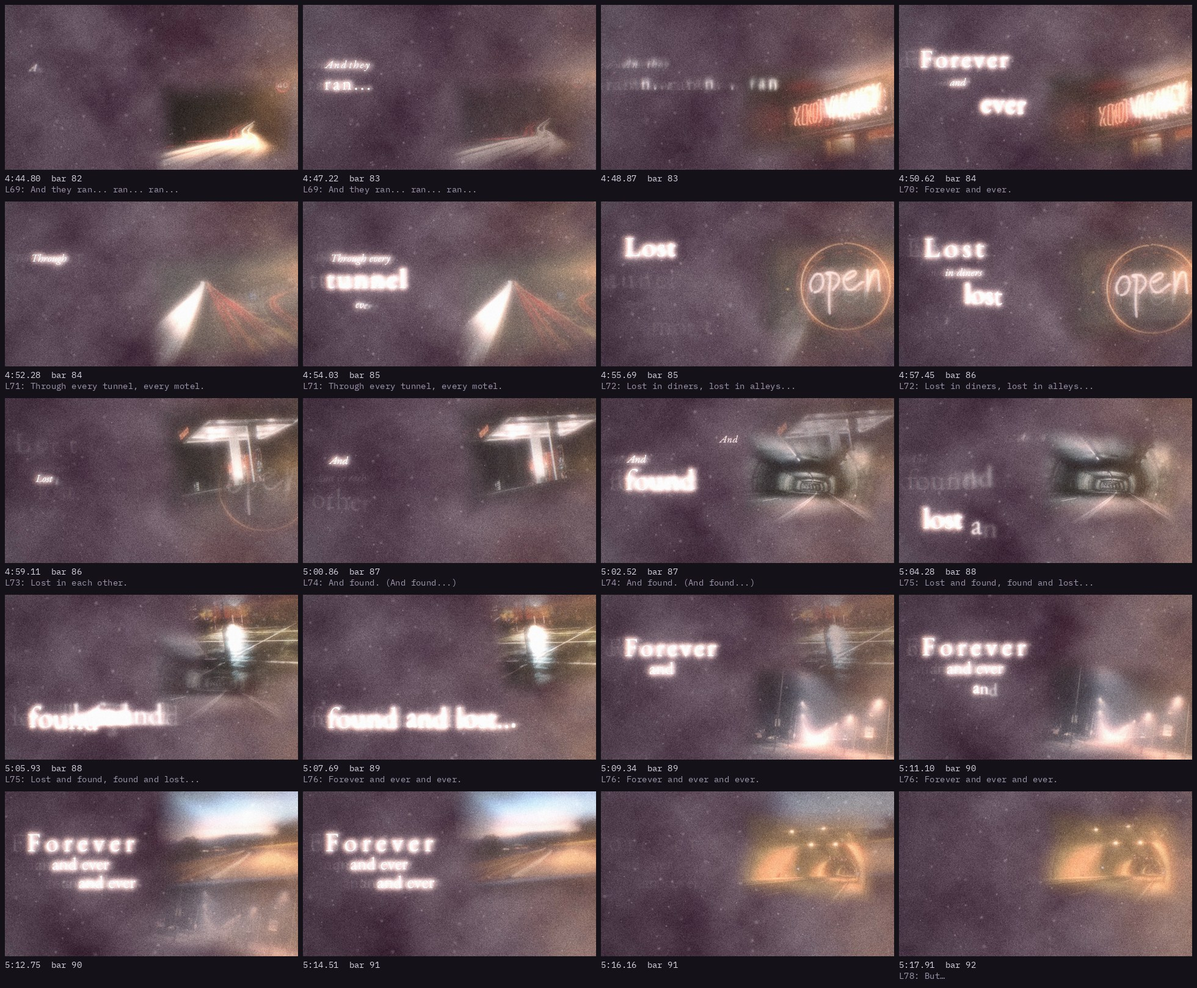
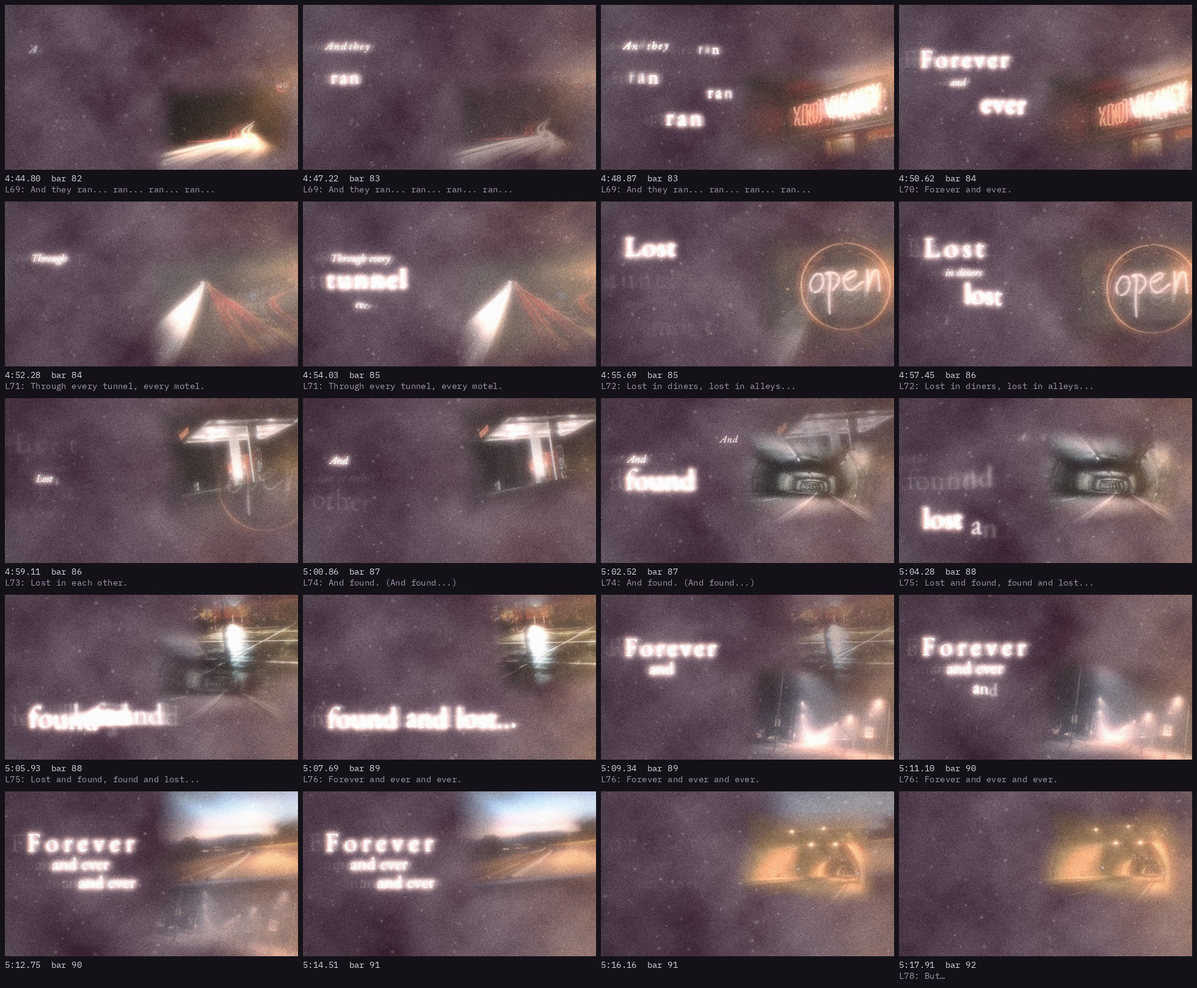
Storyboard: The Run with scattered rans
Claude-Session: https://claude.ai/code/session_013aPae8dR11r7xw8o95d9Yi

Changed region(s): [[0.498, 0.0309, 0.6536, 0.1545], [0.249, 0.0309, 0.3112, 0.0927]]

diff --git a/storyboard/index.html b/storyboard/index.html
@@ -150,7 +150,7 @@ ol.steps li::marker { font: 600 0.85rem var(--mono); color: var(--ink-2); }
   </video>
   <figcaption><b>The Run</b>
     <span class="tc">4:44.8 → 5:18.0 · bars 83–92</span>
-    <span class="note">The one time they are free. Warm and fast, but nothing pulses and nothing comes at the viewer: speed is sideways (long-exposure streaks, motel and diner photographs rushing past, light trails behind her words). No tally marks: time isn&#x27;t counted here. ran... ran... ran... steps across the frame; FOREVER / EVER; TUNNEL / MOTEL; &#x27;lost&#x27; turns good (LOST / LOST, lost in each OTHER); FOUND with its echo. Then the title is sung outright: &#x27;lost and found&#x27; set plainly in the title&#x27;s place, and its words slide past each other into &#x27;found and lost...&#x27;. &#x27;Forever and ever and ever&#x27; steps down and lets go before &#x27;But...&#x27;. <a href="renders/the_run_contact.jpg">Contact sheet</a></span></figcaption>
+    <span class="note">The one time they are free. Warm and fast, but nothing pulses and nothing comes at the viewer: speed is sideways (long-exposure streaks, motel and diner photographs rushing past, light trails behind her words). No tally marks: time isn&#x27;t counted here. four &#x27;ran&#x27;s (no ellipses) scattered across the frame; FOREVER / EVER; TUNNEL / MOTEL; &#x27;lost&#x27; turns good (LOST / LOST, lost in each OTHER); FOUND with its echo. Then the title is sung outright: &#x27;lost and found&#x27; set plainly in the title&#x27;s place, and its words slide past each other into &#x27;found and lost...&#x27;. &#x27;Forever and ever and ever&#x27; steps down and lets go before &#x27;But...&#x27;. <a href="renders/the_run_contact.jpg">Contact sheet</a></span></figcaption>
 </figure>
 <figure class="render" id="render-spoken_ii">
   <video controls playsinline preload="metadata" poster="renders/spoken_ii_poster.jpg" width="1280" height="720">
@@ -551,10 +551,10 @@ ol.steps li::marker { font: 600 0.85rem var(--mono); color: var(--ink-2); }
   <div class="body">
     <header><span class="chip" data-world="run">The run</span>
       <h3>The Run</h3></header>
-    <p class="lyr">And they ran... ran... ran...</p>
+    <p class="lyr">And they ran... ran... ran... ran...</p>
     <dl>
       <dt>Picture</dt><dd>The only time they are free: warm and fast, sodium and neon smearing into long-exposure streaks, motel and diner photographs rushing past. Speed is sideways, never toward the viewer and never on the beat. The tally marks stop: time isn&#x27;t counted here. &#x27;Lost&#x27; turns good (lost in each other), and the title is sung outright: “lost and found” set plainly in the title&#x27;s place, then its words slide past each other into “found and lost...”.</dd>
-      <dt>Type</dt><dd>Her voice as warm light. ran... ran... ran... stepping across the frame; FOREVER / EVER; TUNNEL / MOTEL; LOST / LOST; each OTHER; FOUND with its echo; the title, then its reversal; forever and ever and ever stepping down.</dd>
+      <dt>Type</dt><dd>Her voice as warm light. Four RANs, no ellipses, scattered across the frame; FOREVER / EVER; TUNNEL / MOTEL; LOST / LOST; each OTHER; FOUND with its echo; the title, then its reversal; forever and ever and ever stepping down.</dd>
       <dt>Sync</dt><dd>Words re-timed where Whisper ran them together; the bars land on the “But...” freeze.</dd>
     </dl>
   </div>
@@ -711,7 +711,7 @@ ol.steps li::marker { font: 600 0.85rem var(--mono); color: var(--ink-2); }
 })();
 </script>
 <script>
-const D = {"duration":493.6209977324263,"loud_t":0.5,"loud":[-47.0,-80.9,-60.6,-44.5,-39.1,-36.3,-33.6,-30.7,-28.0,-27.2,-27.0,-26.6,-26.8,-26.0,-24.4,-24.1,-24.0,-23.0,-23.1,-21.6,-19.4,-18.7,-19.1,-21.8,-23.9,-24.4,-25.6,-25.4,-24.3,-24.4,-23.7,-23.2,-22.7,-23.0,-23.6,-22.5,-20.9,-20.0,-19.8,-19.4,-20.0,-20.2,-19.6,-19.3,-19.4,-19.2,-19.6,-21.1,-21.5,-21.8,-20.6,-19.3,-19.1,-19.4,-20.7,-20.8,-18.9,-18.8,-20.3,-19.6,-19.8,-19.6,-18.9,-20.0,-19.6,-19.3,-19.3,-20.2,-21.0,-20.3,-19.4,-19.6,-19.8,-18.8,-19.3,-19.7,-19.1,-19.8,-20.5,-20.8,-20.3,-20.5,-21.3,-20.9,-19.7,-20.1,-21.0,-19.7,-19.5,-19.1,-18.7,-18.6,-18.3,-19.2,-19.5,-19.6,-19.4,-19.4,-19.2,-18.7,-20.4,-20.7,-19.5,-19.4,-19.7,-18.3,-17.4,-19.4,-21.7,-22.3,-22.4,-22.1,-21.6,-21.0,-19.7,-19.1,-18.8,-18.9,-19.1,-18.2,-18.4,-19.2,-18.6,-18.2,-18.2,-18.9,-18.6,-17.8,-17.4,-17.2,-17.7,-18.1,-19.0,-18.8,-18.6,-18.7,-17.7,-18.1,-18.6,-18.9,-18.6,-17.8,-17.5,-17.6,-18.3,-18.1,-17.7,-17.6,-18.0,-18.4,-17.7,-18.0,-17.8,-17.4,-17.8,-17.6,-17.2,-17.6,-18.4,-17.7,-17.5,-17.8,-18.6,-18.9,-17.7,-17.5,-17.3,-16.9,-17.1,-17.7,-18.2,-18.1,-17.5,-17.8,-18.1,-17.3,-17.4,-17.7,-17.1,-17.1,-16.9,-17.8,-17.6,-17.2,-17.5,-17.5,-17.9,-17.7,-17.5,-17.0,-16.9,-17.4,-17.5,-18.4,-18.9,-18.3,-17.1,-17.1,-17.4,-16.6,-17.3,-17.6,-16.9,-16.1,-16.5,-17.4,-17.1,-17.2,-17.3,-17.0,-16.1,-16.2,-16.9,-16.7,-17.3,-17.4,-16.4,-15.7,-16.1,-17.4,-17.6,-18.0,-18.2,-16.4,-15.7,-15.9,-15.7,-16.2,-17.5,-18.1,-18.7,-18.6,-19.4,-18.0,-16.2,-17.6,-18.0,-18.1,-18.2,-22.3,-22.2,-17.0,-16.5,-17.2,-17.2,-16.7,-17.2,-17.2,-17.6,-18.2,-17.6,-18.1,-17.2,-18.1,-19.3,-17.9,-17.7,-17.0,-16.5,-15.8,-15.5,-16.1,-17.0,-17.5,-17.4,-17.9,-17.2,-17.6,-18.6,-17.1,-16.2,-16.2,-16.4,-15.6,-15.1,-16.2,-17.1,-17.0,-16.9,-17.4,-16.6,-16.3,-17.0,-17.3,-16.9,-16.6,-16.2,-15.3,-15.8,-16.2,-16.6,-16.9,-16.8,-16.9,-16.2,-16.4,-16.5,-15.5,-15.2,-15.5,-15.3,-14.5,-14.8,-15.4,-15.6,-15.6,-15.4,-15.8,-16.1,-15.5,-15.6,-16.1,-16.4,-16.1,-15.1,-14.9,-14.8,-15.8,-16.2,-15.5,-15.4,-15.7,-16.0,-15.8,-17.0,-17.1,-16.8,-16.7,-15.6,-15.5,-15.3,-15.5,-15.3,-15.6,-15.9,-15.7,-15.8,-15.8,-16.2,-16.1,-15.8,-15.9,-15.3,-15.2,-15.0,-14.9,-15.6,-15.6,-15.5,-15.4,-15.8,-16.2,-16.2,-16.6,-16.0,-15.4,-15.2,-15.3,-15.4,-15.2,-15.7,-15.6,-15.2,-15.3,-15.7,-16.2,-18.4,-22.2,-22.6,-21.9,-23.3,-25.0,-22.7,-20.3,-21.3,-21.5,-22.4,-24.0,-22.9,-21.5,-21.7,-22.4,-22.6,-22.2,-21.2,-21.2,-21.5,-21.8,-21.1,-19.8,-20.1,-18.7,-16.5,-16.1,-16.5,-16.8,-16.6,-15.9,-15.8,-16.2,-16.5,-16.9,-16.8,-16.2,-15.6,-15.7,-16.0,-16.0,-16.4,-16.4,-16.0,-15.9,-15.8,-16.1,-16.2,-16.5,-16.9,-16.2,-15.7,-15.9,-16.5,-16.6,-17.0,-16.9,-16.1,-16.2,-16.0,-16.4,-16.6,-16.6,-16.3,-15.6,-15.7,-15.9,-16.3,-16.7,-16.8,-16.7,-16.0,-15.9,-16.2,-16.2,-16.5,-16.4,-16.4,-15.9,-16.0,-16.4,-16.5,-16.8,-16.6,-16.3,-16.1,-15.8,-16.0,-16.2,-16.9,-16.7,-15.8,-15.8,-15.9,-16.6,-16.8,-16.7,-16.6,-16.1,-16.2,-16.1,-16.3,-16.6,-16.5,-16.5,-15.8,-15.7,-16.1,-16.5,-16.6,-16.6,-16.3,-15.3,-15.6,-16.1,-15.5,-15.8,-15.9,-15.4,-14.8,-14.8,-15.5,-15.8,-16.4,-16.5,-15.7,-15.3,-15.4,-16.0,-15.7,-15.6,-15.6,-14.7,-15.0,-15.4,-15.7,-16.3,-16.6,-16.5,-15.6,-15.6,-16.1,-16.0,-16.4,-16.4,-15.7,-15.3,-15.2,-16.1,-16.6,-16.2,-15.6,-15.4,-15.3,-15.5,-16.2,-16.5,-16.2,-15.4,-15.3,-15.3,-15.1,-15.6,-15.9,-15.8,-15.6,-15.8,-15.8,-15.8,-16.2,-16.7,-16.2,-15.4,-16.0,-17.4,-19.4,-19.4,-22.8,-25.1,-19.5,-15.9,-16.1,-16.4,-16.6,-17.0,-16.3,-15.5,-15.7,-16.1,-16.0,-16.4,-16.5,-16.6,-16.8,-17.4,-17.4,-16.3,-16.0,-17.4,-18.8,-18.2,-18.3,-17.4,-16.0,-16.8,-17.2,-17.4,-17.8,-18.0,-18.0,-16.8,-16.7,-17.7,-17.5,-17.2,-17.3,-17.6,-16.8,-16.8,-17.4,-17.3,-17.2,-17.3,-17.6,-16.7,-16.3,-16.9,-17.0,-17.6,-17.6,-17.6,-17.3,-17.0,-18.8,-18.8,-18.3,-18.5,-17.6,-16.7,-17.0,-17.3,-16.6,-16.7,-17.2,-16.9,-16.6,-17.1,-17.4,-17.6,-17.1,-16.7,-16.8,-17.3,-17.3,-16.9,-16.4,-16.5,-16.9,-17.0,-17.7,-17.3,-16.2,-17.6,-17.7,-17.0,-17.1,-17.0,-17.7,-17.4,-17.8,-17.6,-16.8,-16.7,-17.0,-17.6,-17.1,-16.7,-16.9,-16.5,-16.4,-17.1,-17.6,-17.1,-16.9,-16.9,-16.8,-17.3,-16.9,-16.8,-16.9,-16.7,-17.1,-17.4,-17.6,-17.3,-16.6,-16.3,-16.6,-16.6,-16.2,-16.8,-17.5,-17.5,-18.3,-18.6,-18.1,-17.7,-18.0,-18.7,-18.6,-18.6,-18.4,-17.3,-17.1,-17.8,-18.0,-17.8,-17.8,-18.2,-17.7,-18.2,-19.6,-18.8,-18.3,-18.4,-17.8,-16.8,-17.5,-18.3,-17.7,-18.0,-17.8,-17.6,-17.6,-17.7,-18.7,-18.4,-18.6,-18.7,-17.7,-17.2,-17.3,-17.8,-18.1,-18.4,-18.4,-17.5,-17.7,-18.6,-18.8,-18.3,-17.7,-17.7,-18.1,-18.6,-18.5,-17.5,-18.0,-18.9,-18.4,-18.1,-18.6,-18.5,-17.5,-18.6,-19.1,-18.0,-17.7,-18.1,-18.4,-18.0,-18.7,-18.8,-17.9,-18.1,-18.6,-18.1,-18.2,-18.8,-18.8,-18.0,-18.2,-18.6,-18.1,-18.8,-19.2,-18.6,-17.8,-18.7,-19.5,-18.3,-18.5,-19.1,-18.6,-18.6,-18.4,-18.6,-18.7,-18.7,-18.6,-17.8,-18.1,-18.3,-18.4,-18.6,-18.3,-18.5,-18.2,-18.1,-18.4,-17.6,-17.3,-17.7,-18.3,-18.3,-18.4,-18.8,-18.3,-18.0,-17.7,-17.0,-16.7,-17.2,-17.7,-17.6,-17.4,-17.3,-16.7,-16.8,-17.9,-17.6,-17.9,-18.8,-18.6,-18.3,-18.0,-18.3,-17.6,-17.3,-17.8,-18.4,-18.5,-18.6,-19.1,-18.7,-18.6,-18.5,-17.9,-17.7,-17.9,-19.2,-19.1,-18.7,-18.5,-17.9,-18.3,-17.9,-17.6,-18.0,-18.5,-18.3,-17.2,-17.2,-17.8,-17.6,-17.6,-18.0,-18.5,-18.2,-17.7,-18.1,-17.8,-18.7,-19.3,-17.8,-17.3,-18.2,-18.9,-17.7,-17.7,-18.5,-17.8,-17.8,-19.1,-19.6,-18.1,-18.2,-18.4,-17.8,-18.7,-18.6,-17.0,-17.0,-18.3,-18.4,-17.4,-16.6,-17.2,-18.0,-17.7,-17.3,-18.4,-18.3,-18.1,-18.4,-17.4,-17.2,-17.9,-18.9,-18.2,-17.9,-18.8,-18.5,-18.9,-19.0,-19.0,-18.4,-17.4,-18.1,-18.3,-19.0,-19.2,-18.9,-18.5,-17.4,-18.2,-18.4,-18.7,-19.2,-18.1,-17.5,-18.0,-21.7,-25.5,-22.3,-19.1,-21.2,-21.3,-19.6,-18.5,-17.5,-17.4,-17.3,-17.0,-17.5,-17.4,-17.2,-17.2,-17.0,-17.6,-17.8,-17.5,-17.5,-18.0,-18.1,-18.1,-18.1,-17.3,-17.0,-17.6,-17.7,-17.5,-17.2,-17.4,-17.4,-18.1,-18.9,-18.1,-18.2,-18.3,-17.5,-17.0,-17.6,-18.4,-17.8,-18.0,-18.4,-17.6,-17.5,-18.2,-18.3,-17.7,-17.8,-18.0,-17.5,-17.5,-17.3,-16.9,-17.5,-18.0,-17.5,-17.2,-18.7,-18.9,-17.1,-17.3,-17.2,-17.1,-17.0,-16.7,-17.0,-16.8,-16.8,-16.8,-16.7,-16.6,-16.3,-16.9,-17.0,-16.7,-16.7,-16.2,-16.3,-16.7,-16.6,-16.3,-16.7,-20.1,-27.7,-36.8,-26.0],"bars":[0.418,3.3672,6.828,10.3616,13.9019,20.0866,23.6284,27.166,30.705,34.2453,37.7775,41.3056,44.8364,48.3672,51.8966,55.4247,58.9432,62.4535,65.9583,69.4563,72.9503,76.4456,79.9436,83.4389,84.3103,87.7974,91.2804,94.7606,98.2423,101.7212,105.1932,106.9279,110.4013,113.898,120.0677,123.5971,127.1156,130.6327,134.1458,137.6424,141.1268,144.6016,148.0764,151.5416,155.0014,158.4543,161.9045,165.3575,168.8063,172.2511,175.6876,179.1187,182.5498,185.9836,189.4161,192.8486,196.2769,199.6971,203.12,206.5429,209.9617,213.3764,216.7911,220.2071,223.6136,227.0119,230.4089,233.8045,237.1973,240.5874,243.9748,247.3581,250.74,256.6474,259.9925,262.8663,264.9178,267.4201,270.3076,271.9412,275.233,278.6326,282.0501,287.168,290.5745,293.9837,297.3998,300.8131,304.2251,307.6357,311.0477,314.4569,317.8648,321.2699,324.671,328.072,331.4676,334.0122,337.401,340.7856,344.173,347.5604,350.9437,354.3283,357.7075,361.0908,367.0132,370.3938,373.7757,377.1563,380.5368,383.9146,387.2952,390.673,394.0467,396.5832,399.961,403.332,406.7002,410.0767,413.4559,416.8378,417.686,421.0884,424.5086,427.9369,431.3653,434.7977,438.2288,441.6572,445.0883,448.5194,451.9491,452.8055,456.2325,459.6581,463.0865,466.5039,469.9036,473.2882,476.6715,480.0575,483.4449,486.8296,490.206,493.5634],"sections":[{"name":"Intro","start":0.0,"end":16.92,"world":"void","bar":0},{"name":"Verse A: Through eyes","start":16.92,"end":56.0,"world":"her","bar":5},{"name":"There comes a once","start":56.0,"end":84.15,"world":"memory","bar":16},{"name":"Refrain I: Stay lost now girl","start":84.15,"end":106.35,"world":"her","bar":24},{"name":"Break I","start":106.35,"end":117.1,"world":"institute","bar":31},{"name":"White Coats I","start":117.1,"end":151.81,"world":"institute","bar":34},{"name":"They brought a man","start":151.81,"end":184.0,"world":"memory","bar":44},{"name":"Spoken I: I can help you find","start":184.0,"end":195.57,"world":"memory","bar":53},{"name":"Break II","start":195.57,"end":208.42,"world":"memory","bar":56},{"name":"White Coats II","start":208.42,"end":253.4,"world":"institute","bar":60},{"name":"A gun and a bullet","start":253.4,"end":274.5,"world":"institute","bar":73},{"name":"Spoken II: I won't lose you","start":274.5,"end":284.78,"world":"memory","bar":80},{"name":"The Run","start":284.78,"end":318.0,"world":"run","bar":83},{"name":"But...","start":318.0,"end":332.45,"world":"void","bar":93},{"name":"White Coats III","start":332.45,"end":363.99,"world":"institute","bar":97},{"name":"The Cutting","start":363.99,"end":396.63,"world":"memory","bar":106},{"name":"Refrain II: Stay lost now girl","start":396.63,"end":417.57,"world":"her","bar":116},{"name":"Verse A reprise","start":417.57,"end":452.07,"world":"her","bar":122},{"name":"Outro","start":452.07,"end":493.621,"world":"void","bar":133}],"lines":[{"n":1,"s":16.92,"e":20.3,"x":"Through eyes that were hers and weren't","pin":true},{"n":2,"s":20.45,"e":24.02,"x":"Through years that weren't hers and were","pin":true},{"n":3,"s":24.02,"e":27.46,"x":"Left in rooms she couldn't leave","pin":false},{"n":4,"s":27.46,"e":30.86,"x":"Learning a self she couldn't learn","pin":false},{"n":5,"s":30.86,"e":35.28,"x":"And a voice came to her (sweet, so sweet)","pin":false},{"n":6,"s":35.28,"e":42.96,"x":"A hand, as ever as it was once (good, so good)","pin":false},{"n":7,"s":43.7,"e":46.96,"x":"She got lost inside him","pin":false},{"n":8,"s":46.96,"e":50.52,"x":"Lost and lost inside him","pin":false},{"n":9,"s":50.52,"e":54.04,"x":"Like she swore she never would.","pin":false},{"n":11,"s":56.0,"e":58.68,"x":"But there comes a once... once...","pin":true},{"n":12,"s":58.68,"e":64.7,"x":"She said \"no\" (once...). And she lost him for a lifetime.","pin":false},{"n":13,"s":64.7,"e":67.28,"x":"There comes a once... once...","pin":false},{"n":14,"s":67.28,"e":73.28,"x":"She said \"yes\" (once...).  And she lost him forever.","pin":false},{"n":15,"s":73.28,"e":75.12,"x":"Lost and lost.","pin":false},{"n":16,"s":75.38,"e":76.6,"x":"Lost to her.","pin":false},{"n":17,"s":76.6,"e":78.47,"x":"Lost to the world.","pin":false},{"n":18,"s":78.47,"e":84.15,"x":"Forever and ever.","pin":true},{"n":20,"s":84.15,"e":89.2,"x":"Stay lost now girl (forever, forever)","pin":true},{"n":21,"s":89.29,"e":92.49,"x":"Throw away everything he found","pin":false},{"n":22,"s":92.49,"e":97.75,"x":"So he never got lost inside you. (again, again)","pin":true},{"n":23,"s":97.75,"e":104.65,"x":"Forever again, forever again.","pin":true},{"n":24,"s":105.17,"e":106.35,"x":"Never again...","pin":false},{"n":26,"s":117.1,"e":119.5,"x":"The white coats said:","pin":true},{"n":27,"s":120.2,"e":123.05,"x":"We've found a girl who is very lost.","pin":true},{"n":28,"s":123.05,"e":126.91,"x":"Scribble scribble, stab stab the charts.","pin":true},{"n":29,"s":126.91,"e":130.23,"x":"Keep her safe in a nice white room.","pin":false},{"n":30,"s":130.23,"e":133.95,"x":"Scribble scribble, stab stab the charts.","pin":true},{"n":31,"s":133.95,"e":137.79,"x":"We\u2019ll find out HOW lost she really is.","pin":false},{"n":32,"s":137.79,"e":140.97,"x":"With time, with time...","pin":false},{"n":33,"s":141.35,"e":144.63,"x":"With time we can find anything.","pin":false},{"n":34,"s":144.63,"e":147.87,"x":"With time, with time...","pin":false},{"n":35,"s":147.87,"e":151.81,"x":"Even a girl who is very hard to find.","pin":false},{"n":37,"s":151.81,"e":153.39,"x":"They brought a man.","pin":false},{"n":38,"s":154.45,"e":158.85,"x":"A man who could find someone hard to find.","pin":false},{"n":39,"s":158.85,"e":164.09,"x":"And in the end, he found, oh he found...","pin":false},{"n":40,"s":164.09,"e":168.99,"x":"...something VERY hard to find (in her).","pin":false},{"n":41,"s":170.65,"e":176.19,"x":"And in the end, she found, oh she found...","pin":false},{"n":42,"s":176.19,"e":181.55,"x":"Her forever. And ever... (in him).","pin":false},{"n":44,"s":184.0,"e":188.85,"x":"\"I can help you find protecting, trusting and believing","pin":true},{"n":45,"s":191.05,"e":195.57,"x":"Even if they're very hard to find.\"","pin":true},{"n":47,"s":208.42,"e":212.26,"x":"But with time, with time,","pin":false},{"n":48,"s":213.12,"e":214.74,"x":"the white coats said:","pin":false},{"n":49,"s":214.74,"e":217.14,"x":"Hmm... this girl is too lost.","pin":false},{"n":50,"s":217.66,"e":222.26,"x":"Scribble scribble, stab stab the charts.","pin":true},{"n":51,"s":224.09,"e":229.23,"x":"This girl is too hard to find.","pin":false},{"n":52,"s":231.05,"e":235.9,"x":"Scribble scribble, stab stab the charts.","pin":true},{"n":53,"s":237.09,"e":240.37,"x":"With time, with time...","pin":false},{"n":54,"s":240.37,"e":244.23,"x":"We found she isn't worth the time.","pin":false},{"n":55,"s":244.23,"e":247.19,"x":"With time, with time...","pin":false},{"n":56,"s":247.19,"e":251.25,"x":"This girl who is very hard to find.","pin":false},{"n":58,"s":253.4,"e":256.0,"x":"And with time, and with time,","pin":true},{"n":59,"s":257.2,"e":260.29,"x":"The white coats brought the man a gun and a bullet","pin":true},{"n":60,"s":260.29,"e":264.35,"x":"And said \"go and find that girl.\"","pin":true},{"n":61,"s":265.3,"e":266.1,"x":"And he did,","pin":true},{"n":62,"s":267.15,"e":268.0,"x":"he did...","pin":true},{"n":63,"s":268.8,"e":269.9,"x":"He found her,","pin":true},{"n":64,"s":271.35,"e":272.8,"x":"he found her...","pin":true},{"n":66,"s":274.5,"e":275.6,"x":"\"I won't lose you.","pin":true},{"n":67,"s":277.05,"e":279.69,"x":"Together, we'll find you the time.\"","pin":true},{"n":69,"s":284.78,"e":288.57,"x":"And they ran... ran... ran...","pin":true},{"n":70,"s":289.15,"e":291.2,"x":"Forever and ever.","pin":true},{"n":71,"s":291.25,"e":295.11,"x":"Through every tunnel, every motel.","pin":false},{"n":72,"s":295.11,"e":298.65,"x":"Lost in diners, lost in alleys...","pin":false},{"n":73,"s":298.65,"e":300.51,"x":"Lost in each other.","pin":false},{"n":74,"s":300.51,"e":303.7,"x":"And found. (And found...)","pin":true},{"n":75,"s":303.81,"e":307.19,"x":"Lost and found, found and lost...","pin":false},{"n":76,"s":307.87,"e":312.42,"x":"Forever and ever and ever.","pin":false},{"n":78,"s":318.0,"e":319.4,"x":"But\u2026","pin":true},{"n":80,"s":319.58,"e":324.27,"x":"But forever... always comes to an end,","pin":false},{"n":81,"s":324.39,"e":327.41,"x":"when the coats... come round the bend.","pin":false},{"n":83,"s":332.45,"e":334.104,"x":"And the coats said:","pin":false},{"n":84,"s":334.45,"e":337.15,"x":"Hmm... this man is too lost.","pin":false},{"n":85,"s":337.17,"e":340.03,"x":"Scribble scribble, stab stab the charts.","pin":false},{"n":86,"s":340.13,"e":343.63,"x":"We\u2019ll have to cut out his something hard to find.","pin":false},{"n":87,"s":343.99,"e":346.91,"x":"Scribble scribble, stab stab the charts.","pin":false},{"n":88,"s":347.13,"e":348.53,"x":"With time, with time","pin":false},{"n":89,"s":348.57,"e":351.27,"x":"We'll see how lost this girl can be.","pin":false},{"n":90,"s":351.93,"e":353.55,"x":"With time, with time","pin":false},{"n":91,"s":353.65,"e":357.73,"x":"We'll make her a girl who can find ANYTHING.","pin":false},{"n":92,"s":357.73,"e":361.49,"x":"Except... something hard to find.","pin":false},{"n":94,"s":363.99,"e":367.35,"x":"They cut away his protecting.","pin":false},{"n":95,"s":367.35,"e":370.75,"x":"They cut away his trusting.","pin":false},{"n":96,"s":370.75,"e":374.05,"x":"They cut away his believing.","pin":false},{"n":97,"s":374.05,"e":377.31,"x":"But left him the gun\u2026 and the bullet.","pin":false},{"n":99,"s":377.31,"e":379.67,"x":"They took her arms to hug,","pin":false},{"n":100,"s":379.67,"e":381.41,"x":"They took her legs to run,","pin":false},{"n":101,"s":381.41,"e":384.91,"x":"Her eyes to see and ears to hear...","pin":false},{"n":102,"s":384.91,"e":388.43,"x":"But left her the years (and years and years)...","pin":false},{"n":103,"s":388.43,"e":390.89,"x":"Alone, with time... with time...","pin":false},{"n":104,"s":390.89,"e":394.49,"x":"And all her agains and agains and agains...","pin":false},{"n":105,"s":394.49,"e":396.63,"x":"Of him...  and her...","pin":false},{"n":107,"s":396.63,"e":401.25,"x":"Stay lost now girl (forever, forever)","pin":false},{"n":108,"s":401.71,"e":405.61,"x":"Throw away everything he could find","pin":false},{"n":109,"s":405.61,"e":410.49,"x":"So he never got lost inside you. (again, again)","pin":false},{"n":110,"s":410.49,"e":415.57,"x":"Forever again, forever again.","pin":false},{"n":111,"s":415.81,"e":417.57,"x":"Never again...","pin":false},{"n":113,"s":417.57,"e":421.11,"x":"Through eyes that were hers and weren't","pin":false},{"n":114,"s":421.33,"e":425.07,"x":"Through years that weren't hers and were","pin":false},{"n":115,"s":425.07,"e":428.27,"x":"Left in rooms she couldn't leave","pin":false},{"n":116,"s":428.27,"e":431.41,"x":"Learning a self she couldn't learn","pin":false},{"n":117,"s":431.41,"e":435.77,"x":"And a voice came to her (sweet, so sweet)","pin":false},{"n":118,"s":435.77,"e":441.01,"x":"A hand, as ever as it was once (good, so good)","pin":false},{"n":119,"s":441.01,"e":444.47,"x":"She got lost inside him","pin":false},{"n":120,"s":444.55,"e":448.05,"x":"Lost and lost inside him","pin":false},{"n":121,"s":448.05,"e":452.07,"x":"Like she swore she never would.","pin":false}],"frames":[{"key":"A","t":46.3,"section":"Verse A: Through eyes"},{"key":"B","t":125.9,"section":"White Coats I"},{"key":"C","t":368.3,"section":"The Cutting"}]};
+const D = {"duration":493.6209977324263,"loud_t":0.5,"loud":[-47.0,-80.9,-60.6,-44.5,-39.1,-36.3,-33.6,-30.7,-28.0,-27.2,-27.0,-26.6,-26.8,-26.0,-24.4,-24.1,-24.0,-23.0,-23.1,-21.6,-19.4,-18.7,-19.1,-21.8,-23.9,-24.4,-25.6,-25.4,-24.3,-24.4,-23.7,-23.2,-22.7,-23.0,-23.6,-22.5,-20.9,-20.0,-19.8,-19.4,-20.0,-20.2,-19.6,-19.3,-19.4,-19.2,-19.6,-21.1,-21.5,-21.8,-20.6,-19.3,-19.1,-19.4,-20.7,-20.8,-18.9,-18.8,-20.3,-19.6,-19.8,-19.6,-18.9,-20.0,-19.6,-19.3,-19.3,-20.2,-21.0,-20.3,-19.4,-19.6,-19.8,-18.8,-19.3,-19.7,-19.1,-19.8,-20.5,-20.8,-20.3,-20.5,-21.3,-20.9,-19.7,-20.1,-21.0,-19.7,-19.5,-19.1,-18.7,-18.6,-18.3,-19.2,-19.5,-19.6,-19.4,-19.4,-19.2,-18.7,-20.4,-20.7,-19.5,-19.4,-19.7,-18.3,-17.4,-19.4,-21.7,-22.3,-22.4,-22.1,-21.6,-21.0,-19.7,-19.1,-18.8,-18.9,-19.1,-18.2,-18.4,-19.2,-18.6,-18.2,-18.2,-18.9,-18.6,-17.8,-17.4,-17.2,-17.7,-18.1,-19.0,-18.8,-18.6,-18.7,-17.7,-18.1,-18.6,-18.9,-18.6,-17.8,-17.5,-17.6,-18.3,-18.1,-17.7,-17.6,-18.0,-18.4,-17.7,-18.0,-17.8,-17.4,-17.8,-17.6,-17.2,-17.6,-18.4,-17.7,-17.5,-17.8,-18.6,-18.9,-17.7,-17.5,-17.3,-16.9,-17.1,-17.7,-18.2,-18.1,-17.5,-17.8,-18.1,-17.3,-17.4,-17.7,-17.1,-17.1,-16.9,-17.8,-17.6,-17.2,-17.5,-17.5,-17.9,-17.7,-17.5,-17.0,-16.9,-17.4,-17.5,-18.4,-18.9,-18.3,-17.1,-17.1,-17.4,-16.6,-17.3,-17.6,-16.9,-16.1,-16.5,-17.4,-17.1,-17.2,-17.3,-17.0,-16.1,-16.2,-16.9,-16.7,-17.3,-17.4,-16.4,-15.7,-16.1,-17.4,-17.6,-18.0,-18.2,-16.4,-15.7,-15.9,-15.7,-16.2,-17.5,-18.1,-18.7,-18.6,-19.4,-18.0,-16.2,-17.6,-18.0,-18.1,-18.2,-22.3,-22.2,-17.0,-16.5,-17.2,-17.2,-16.7,-17.2,-17.2,-17.6,-18.2,-17.6,-18.1,-17.2,-18.1,-19.3,-17.9,-17.7,-17.0,-16.5,-15.8,-15.5,-16.1,-17.0,-17.5,-17.4,-17.9,-17.2,-17.6,-18.6,-17.1,-16.2,-16.2,-16.4,-15.6,-15.1,-16.2,-17.1,-17.0,-16.9,-17.4,-16.6,-16.3,-17.0,-17.3,-16.9,-16.6,-16.2,-15.3,-15.8,-16.2,-16.6,-16.9,-16.8,-16.9,-16.2,-16.4,-16.5,-15.5,-15.2,-15.5,-15.3,-14.5,-14.8,-15.4,-15.6,-15.6,-15.4,-15.8,-16.1,-15.5,-15.6,-16.1,-16.4,-16.1,-15.1,-14.9,-14.8,-15.8,-16.2,-15.5,-15.4,-15.7,-16.0,-15.8,-17.0,-17.1,-16.8,-16.7,-15.6,-15.5,-15.3,-15.5,-15.3,-15.6,-15.9,-15.7,-15.8,-15.8,-16.2,-16.1,-15.8,-15.9,-15.3,-15.2,-15.0,-14.9,-15.6,-15.6,-15.5,-15.4,-15.8,-16.2,-16.2,-16.6,-16.0,-15.4,-15.2,-15.3,-15.4,-15.2,-15.7,-15.6,-15.2,-15.3,-15.7,-16.2,-18.4,-22.2,-22.6,-21.9,-23.3,-25.0,-22.7,-20.3,-21.3,-21.5,-22.4,-24.0,-22.9,-21.5,-21.7,-22.4,-22.6,-22.2,-21.2,-21.2,-21.5,-21.8,-21.1,-19.8,-20.1,-18.7,-16.5,-16.1,-16.5,-16.8,-16.6,-15.9,-15.8,-16.2,-16.5,-16.9,-16.8,-16.2,-15.6,-15.7,-16.0,-16.0,-16.4,-16.4,-16.0,-15.9,-15.8,-16.1,-16.2,-16.5,-16.9,-16.2,-15.7,-15.9,-16.5,-16.6,-17.0,-16.9,-16.1,-16.2,-16.0,-16.4,-16.6,-16.6,-16.3,-15.6,-15.7,-15.9,-16.3,-16.7,-16.8,-16.7,-16.0,-15.9,-16.2,-16.2,-16.5,-16.4,-16.4,-15.9,-16.0,-16.4,-16.5,-16.8,-16.6,-16.3,-16.1,-15.8,-16.0,-16.2,-16.9,-16.7,-15.8,-15.8,-15.9,-16.6,-16.8,-16.7,-16.6,-16.1,-16.2,-16.1,-16.3,-16.6,-16.5,-16.5,-15.8,-15.7,-16.1,-16.5,-16.6,-16.6,-16.3,-15.3,-15.6,-16.1,-15.5,-15.8,-15.9,-15.4,-14.8,-14.8,-15.5,-15.8,-16.4,-16.5,-15.7,-15.3,-15.4,-16.0,-15.7,-15.6,-15.6,-14.7,-15.0,-15.4,-15.7,-16.3,-16.6,-16.5,-15.6,-15.6,-16.1,-16.0,-16.4,-16.4,-15.7,-15.3,-15.2,-16.1,-16.6,-16.2,-15.6,-15.4,-15.3,-15.5,-16.2,-16.5,-16.2,-15.4,-15.3,-15.3,-15.1,-15.6,-15.9,-15.8,-15.6,-15.8,-15.8,-15.8,-16.2,-16.7,-16.2,-15.4,-16.0,-17.4,-19.4,-19.4,-22.8,-25.1,-19.5,-15.9,-16.1,-16.4,-16.6,-17.0,-16.3,-15.5,-15.7,-16.1,-16.0,-16.4,-16.5,-16.6,-16.8,-17.4,-17.4,-16.3,-16.0,-17.4,-18.8,-18.2,-18.3,-17.4,-16.0,-16.8,-17.2,-17.4,-17.8,-18.0,-18.0,-16.8,-16.7,-17.7,-17.5,-17.2,-17.3,-17.6,-16.8,-16.8,-17.4,-17.3,-17.2,-17.3,-17.6,-16.7,-16.3,-16.9,-17.0,-17.6,-17.6,-17.6,-17.3,-17.0,-18.8,-18.8,-18.3,-18.5,-17.6,-16.7,-17.0,-17.3,-16.6,-16.7,-17.2,-16.9,-16.6,-17.1,-17.4,-17.6,-17.1,-16.7,-16.8,-17.3,-17.3,-16.9,-16.4,-16.5,-16.9,-17.0,-17.7,-17.3,-16.2,-17.6,-17.7,-17.0,-17.1,-17.0,-17.7,-17.4,-17.8,-17.6,-16.8,-16.7,-17.0,-17.6,-17.1,-16.7,-16.9,-16.5,-16.4,-17.1,-17.6,-17.1,-16.9,-16.9,-16.8,-17.3,-16.9,-16.8,-16.9,-16.7,-17.1,-17.4,-17.6,-17.3,-16.6,-16.3,-16.6,-16.6,-16.2,-16.8,-17.5,-17.5,-18.3,-18.6,-18.1,-17.7,-18.0,-18.7,-18.6,-18.6,-18.4,-17.3,-17.1,-17.8,-18.0,-17.8,-17.8,-18.2,-17.7,-18.2,-19.6,-18.8,-18.3,-18.4,-17.8,-16.8,-17.5,-18.3,-17.7,-18.0,-17.8,-17.6,-17.6,-17.7,-18.7,-18.4,-18.6,-18.7,-17.7,-17.2,-17.3,-17.8,-18.1,-18.4,-18.4,-17.5,-17.7,-18.6,-18.8,-18.3,-17.7,-17.7,-18.1,-18.6,-18.5,-17.5,-18.0,-18.9,-18.4,-18.1,-18.6,-18.5,-17.5,-18.6,-19.1,-18.0,-17.7,-18.1,-18.4,-18.0,-18.7,-18.8,-17.9,-18.1,-18.6,-18.1,-18.2,-18.8,-18.8,-18.0,-18.2,-18.6,-18.1,-18.8,-19.2,-18.6,-17.8,-18.7,-19.5,-18.3,-18.5,-19.1,-18.6,-18.6,-18.4,-18.6,-18.7,-18.7,-18.6,-17.8,-18.1,-18.3,-18.4,-18.6,-18.3,-18.5,-18.2,-18.1,-18.4,-17.6,-17.3,-17.7,-18.3,-18.3,-18.4,-18.8,-18.3,-18.0,-17.7,-17.0,-16.7,-17.2,-17.7,-17.6,-17.4,-17.3,-16.7,-16.8,-17.9,-17.6,-17.9,-18.8,-18.6,-18.3,-18.0,-18.3,-17.6,-17.3,-17.8,-18.4,-18.5,-18.6,-19.1,-18.7,-18.6,-18.5,-17.9,-17.7,-17.9,-19.2,-19.1,-18.7,-18.5,-17.9,-18.3,-17.9,-17.6,-18.0,-18.5,-18.3,-17.2,-17.2,-17.8,-17.6,-17.6,-18.0,-18.5,-18.2,-17.7,-18.1,-17.8,-18.7,-19.3,-17.8,-17.3,-18.2,-18.9,-17.7,-17.7,-18.5,-17.8,-17.8,-19.1,-19.6,-18.1,-18.2,-18.4,-17.8,-18.7,-18.6,-17.0,-17.0,-18.3,-18.4,-17.4,-16.6,-17.2,-18.0,-17.7,-17.3,-18.4,-18.3,-18.1,-18.4,-17.4,-17.2,-17.9,-18.9,-18.2,-17.9,-18.8,-18.5,-18.9,-19.0,-19.0,-18.4,-17.4,-18.1,-18.3,-19.0,-19.2,-18.9,-18.5,-17.4,-18.2,-18.4,-18.7,-19.2,-18.1,-17.5,-18.0,-21.7,-25.5,-22.3,-19.1,-21.2,-21.3,-19.6,-18.5,-17.5,-17.4,-17.3,-17.0,-17.5,-17.4,-17.2,-17.2,-17.0,-17.6,-17.8,-17.5,-17.5,-18.0,-18.1,-18.1,-18.1,-17.3,-17.0,-17.6,-17.7,-17.5,-17.2,-17.4,-17.4,-18.1,-18.9,-18.1,-18.2,-18.3,-17.5,-17.0,-17.6,-18.4,-17.8,-18.0,-18.4,-17.6,-17.5,-18.2,-18.3,-17.7,-17.8,-18.0,-17.5,-17.5,-17.3,-16.9,-17.5,-18.0,-17.5,-17.2,-18.7,-18.9,-17.1,-17.3,-17.2,-17.1,-17.0,-16.7,-17.0,-16.8,-16.8,-16.8,-16.7,-16.6,-16.3,-16.9,-17.0,-16.7,-16.7,-16.2,-16.3,-16.7,-16.6,-16.3,-16.7,-20.1,-27.7,-36.8,-26.0],"bars":[0.418,3.3672,6.828,10.3616,13.9019,20.0866,23.6284,27.166,30.705,34.2453,37.7775,41.3056,44.8364,48.3672,51.8966,55.4247,58.9432,62.4535,65.9583,69.4563,72.9503,76.4456,79.9436,83.4389,84.3103,87.7974,91.2804,94.7606,98.2423,101.7212,105.1932,106.9279,110.4013,113.898,120.0677,123.5971,127.1156,130.6327,134.1458,137.6424,141.1268,144.6016,148.0764,151.5416,155.0014,158.4543,161.9045,165.3575,168.8063,172.2511,175.6876,179.1187,182.5498,185.9836,189.4161,192.8486,196.2769,199.6971,203.12,206.5429,209.9617,213.3764,216.7911,220.2071,223.6136,227.0119,230.4089,233.8045,237.1973,240.5874,243.9748,247.3581,250.74,256.6474,259.9925,262.8663,264.9178,267.4201,270.3076,271.9412,275.233,278.6326,282.0501,287.168,290.5745,293.9837,297.3998,300.8131,304.2251,307.6357,311.0477,314.4569,317.8648,321.2699,324.671,328.072,331.4676,334.0122,337.401,340.7856,344.173,347.5604,350.9437,354.3283,357.7075,361.0908,367.0132,370.3938,373.7757,377.1563,380.5368,383.9146,387.2952,390.673,394.0467,396.5832,399.961,403.332,406.7002,410.0767,413.4559,416.8378,417.686,421.0884,424.5086,427.9369,431.3653,434.7977,438.2288,441.6572,445.0883,448.5194,451.9491,452.8055,456.2325,459.6581,463.0865,466.5039,469.9036,473.2882,476.6715,480.0575,483.4449,486.8296,490.206,493.5634],"sections":[{"name":"Intro","start":0.0,"end":16.92,"world":"void","bar":0},{"name":"Verse A: Through eyes","start":16.92,"end":56.0,"world":"her","bar":5},{"name":"There comes a once","start":56.0,"end":84.15,"world":"memory","bar":16},{"name":"Refrain I: Stay lost now girl","start":84.15,"end":106.35,"world":"her","bar":24},{"name":"Break I","start":106.35,"end":117.1,"world":"institute","bar":31},{"name":"White Coats I","start":117.1,"end":151.81,"world":"institute","bar":34},{"name":"They brought a man","start":151.81,"end":184.0,"world":"memory","bar":44},{"name":"Spoken I: I can help you find","start":184.0,"end":195.57,"world":"memory","bar":53},{"name":"Break II","start":195.57,"end":208.42,"world":"memory","bar":56},{"name":"White Coats II","start":208.42,"end":253.4,"world":"institute","bar":60},{"name":"A gun and a bullet","start":253.4,"end":274.5,"world":"institute","bar":73},{"name":"Spoken II: I won't lose you","start":274.5,"end":284.78,"world":"memory","bar":80},{"name":"The Run","start":284.78,"end":318.0,"world":"run","bar":83},{"name":"But...","start":318.0,"end":332.45,"world":"void","bar":93},{"name":"White Coats III","start":332.45,"end":363.99,"world":"institute","bar":97},{"name":"The Cutting","start":363.99,"end":396.63,"world":"memory","bar":106},{"name":"Refrain II: Stay lost now girl","start":396.63,"end":417.57,"world":"her","bar":116},{"name":"Verse A reprise","start":417.57,"end":452.07,"world":"her","bar":122},{"name":"Outro","start":452.07,"end":493.621,"world":"void","bar":133}],"lines":[{"n":1,"s":16.92,"e":20.3,"x":"Through eyes that were hers and weren't","pin":true},{"n":2,"s":20.45,"e":24.02,"x":"Through years that weren't hers and were","pin":true},{"n":3,"s":24.02,"e":27.46,"x":"Left in rooms she couldn't leave","pin":false},{"n":4,"s":27.46,"e":30.86,"x":"Learning a self she couldn't learn","pin":false},{"n":5,"s":30.86,"e":35.28,"x":"And a voice came to her (sweet, so sweet)","pin":false},{"n":6,"s":35.28,"e":42.96,"x":"A hand, as ever as it was once (good, so good)","pin":false},{"n":7,"s":43.7,"e":46.96,"x":"She got lost inside him","pin":false},{"n":8,"s":46.96,"e":50.52,"x":"Lost and lost inside him","pin":false},{"n":9,"s":50.52,"e":54.04,"x":"Like she swore she never would.","pin":false},{"n":11,"s":56.0,"e":58.68,"x":"But there comes a once... once...","pin":true},{"n":12,"s":58.68,"e":64.7,"x":"She said \"no\" (once...). And she lost him for a lifetime.","pin":false},{"n":13,"s":64.7,"e":67.28,"x":"There comes a once... once...","pin":false},{"n":14,"s":67.28,"e":73.28,"x":"She said \"yes\" (once...).  And she lost him forever.","pin":false},{"n":15,"s":73.28,"e":75.12,"x":"Lost and lost.","pin":false},{"n":16,"s":75.38,"e":76.6,"x":"Lost to her.","pin":false},{"n":17,"s":76.6,"e":78.47,"x":"Lost to the world.","pin":false},{"n":18,"s":78.47,"e":84.15,"x":"Forever and ever.","pin":true},{"n":20,"s":84.15,"e":89.2,"x":"Stay lost now girl (forever, forever)","pin":true},{"n":21,"s":89.29,"e":92.49,"x":"Throw away everything he found","pin":false},{"n":22,"s":92.49,"e":97.75,"x":"So he never got lost inside you. (again, again)","pin":true},{"n":23,"s":97.75,"e":104.65,"x":"Forever again, forever again.","pin":true},{"n":24,"s":105.17,"e":106.35,"x":"Never again...","pin":false},{"n":26,"s":117.1,"e":119.5,"x":"The white coats said:","pin":true},{"n":27,"s":120.2,"e":123.05,"x":"We've found a girl who is very lost.","pin":true},{"n":28,"s":123.05,"e":126.91,"x":"Scribble scribble, stab stab the charts.","pin":true},{"n":29,"s":126.91,"e":130.23,"x":"Keep her safe in a nice white room.","pin":false},{"n":30,"s":130.23,"e":133.95,"x":"Scribble scribble, stab stab the charts.","pin":true},{"n":31,"s":133.95,"e":137.79,"x":"We\u2019ll find out HOW lost she really is.","pin":false},{"n":32,"s":137.79,"e":140.97,"x":"With time, with time...","pin":false},{"n":33,"s":141.35,"e":144.63,"x":"With time we can find anything.","pin":false},{"n":34,"s":144.63,"e":147.87,"x":"With time, with time...","pin":false},{"n":35,"s":147.87,"e":151.81,"x":"Even a girl who is very hard to find.","pin":false},{"n":37,"s":151.81,"e":153.39,"x":"They brought a man.","pin":false},{"n":38,"s":154.45,"e":158.85,"x":"A man who could find someone hard to find.","pin":false},{"n":39,"s":158.85,"e":164.09,"x":"And in the end, he found, oh he found...","pin":false},{"n":40,"s":164.09,"e":168.99,"x":"...something VERY hard to find (in her).","pin":false},{"n":41,"s":170.65,"e":176.19,"x":"And in the end, she found, oh she found...","pin":false},{"n":42,"s":176.19,"e":181.55,"x":"Her forever. And ever... (in him).","pin":false},{"n":44,"s":184.0,"e":188.85,"x":"\"I can help you find protecting, trusting and believing","pin":true},{"n":45,"s":191.05,"e":195.57,"x":"Even if they're very hard to find.\"","pin":true},{"n":47,"s":208.42,"e":212.26,"x":"But with time, with time,","pin":false},{"n":48,"s":213.12,"e":214.74,"x":"the white coats said:","pin":false},{"n":49,"s":214.74,"e":217.14,"x":"Hmm... this girl is too lost.","pin":false},{"n":50,"s":217.66,"e":222.26,"x":"Scribble scribble, stab stab the charts.","pin":true},{"n":51,"s":224.09,"e":229.23,"x":"This girl is too hard to find.","pin":false},{"n":52,"s":231.05,"e":235.9,"x":"Scribble scribble, stab stab the charts.","pin":true},{"n":53,"s":237.09,"e":240.37,"x":"With time, with time...","pin":false},{"n":54,"s":240.37,"e":244.23,"x":"We found she isn't worth the time.","pin":false},{"n":55,"s":244.23,"e":247.19,"x":"With time, with time...","pin":false},{"n":56,"s":247.19,"e":251.25,"x":"This girl who is very hard to find.","pin":false},{"n":58,"s":253.4,"e":256.0,"x":"And with time, and with time,","pin":true},{"n":59,"s":257.2,"e":260.29,"x":"The white coats brought the man a gun and a bullet","pin":true},{"n":60,"s":260.29,"e":264.35,"x":"And said \"go and find that girl.\"","pin":true},{"n":61,"s":265.3,"e":266.1,"x":"And he did,","pin":true},{"n":62,"s":267.15,"e":268.0,"x":"he did...","pin":true},{"n":63,"s":268.8,"e":269.9,"x":"He found her,","pin":true},{"n":64,"s":271.35,"e":272.8,"x":"he found her...","pin":true},{"n":66,"s":274.5,"e":275.6,"x":"\"I won't lose you.","pin":true},{"n":67,"s":277.05,"e":279.69,"x":"Together, we'll find you the time.\"","pin":true},{"n":69,"s":284.78,"e":289.05,"x":"And they ran... ran... ran... ran...","pin":true},{"n":70,"s":289.1,"e":291.2,"x":"Forever and ever.","pin":true},{"n":71,"s":291.25,"e":295.11,"x":"Through every tunnel, every motel.","pin":false},{"n":72,"s":295.11,"e":298.65,"x":"Lost in diners, lost in alleys...","pin":false},{"n":73,"s":298.65,"e":300.51,"x":"Lost in each other.","pin":false},{"n":74,"s":300.51,"e":303.7,"x":"And found. (And found...)","pin":true},{"n":75,"s":303.81,"e":307.19,"x":"Lost and found, found and lost...","pin":false},{"n":76,"s":307.87,"e":312.42,"x":"Forever and ever and ever.","pin":false},{"n":78,"s":318.0,"e":319.4,"x":"But\u2026","pin":true},{"n":80,"s":319.58,"e":324.27,"x":"But forever... always comes to an end,","pin":false},{"n":81,"s":324.39,"e":327.41,"x":"when the coats... come round the bend.","pin":false},{"n":83,"s":332.45,"e":334.104,"x":"And the coats said:","pin":false},{"n":84,"s":334.45,"e":337.15,"x":"Hmm... this man is too lost.","pin":false},{"n":85,"s":337.17,"e":340.03,"x":"Scribble scribble, stab stab the charts.","pin":false},{"n":86,"s":340.13,"e":343.63,"x":"We\u2019ll have to cut out his something hard to find.","pin":false},{"n":87,"s":343.99,"e":346.91,"x":"Scribble scribble, stab stab the charts.","pin":false},{"n":88,"s":347.13,"e":348.53,"x":"With time, with time","pin":false},{"n":89,"s":348.57,"e":351.27,"x":"We'll see how lost this girl can be.","pin":false},{"n":90,"s":351.93,"e":353.55,"x":"With time, with time","pin":false},{"n":91,"s":353.65,"e":357.73,"x":"We'll make her a girl who can find ANYTHING.","pin":false},{"n":92,"s":357.73,"e":361.49,"x":"Except... something hard to find.","pin":false},{"n":94,"s":363.99,"e":367.35,"x":"They cut away his protecting.","pin":false},{"n":95,"s":367.35,"e":370.75,"x":"They cut away his trusting.","pin":false},{"n":96,"s":370.75,"e":374.05,"x":"They cut away his believing.","pin":false},{"n":97,"s":374.05,"e":377.31,"x":"But left him the gun\u2026 and the bullet.","pin":false},{"n":99,"s":377.31,"e":379.67,"x":"They took her arms to hug,","pin":false},{"n":100,"s":379.67,"e":381.41,"x":"They took her legs to run,","pin":false},{"n":101,"s":381.41,"e":384.91,"x":"Her eyes to see and ears to hear...","pin":false},{"n":102,"s":384.91,"e":388.43,"x":"But left her the years (and years and years)...","pin":false},{"n":103,"s":388.43,"e":390.89,"x":"Alone, with time... with time...","pin":false},{"n":104,"s":390.89,"e":394.49,"x":"And all her agains and agains and agains...","pin":false},{"n":105,"s":394.49,"e":396.63,"x":"Of him...  and her...","pin":false},{"n":107,"s":396.63,"e":401.25,"x":"Stay lost now girl (forever, forever)","pin":false},{"n":108,"s":401.71,"e":405.61,"x":"Throw away everything he could find","pin":false},{"n":109,"s":405.61,"e":410.49,"x":"So he never got lost inside you. (again, again)","pin":false},{"n":110,"s":410.49,"e":415.57,"x":"Forever again, forever again.","pin":false},{"n":111,"s":415.81,"e":417.57,"x":"Never again...","pin":false},{"n":113,"s":417.57,"e":421.11,"x":"Through eyes that were hers and weren't","pin":false},{"n":114,"s":421.33,"e":425.07,"x":"Through years that weren't hers and were","pin":false},{"n":115,"s":425.07,"e":428.27,"x":"Left in rooms she couldn't leave","pin":false},{"n":116,"s":428.27,"e":431.41,"x":"Learning a self she couldn't learn","pin":false},{"n":117,"s":431.41,"e":435.77,"x":"And a voice came to her (sweet, so sweet)","pin":false},{"n":118,"s":435.77,"e":441.01,"x":"A hand, as ever as it was once (good, so good)","pin":false},{"n":119,"s":441.01,"e":444.47,"x":"She got lost inside him","pin":false},{"n":120,"s":444.55,"e":448.05,"x":"Lost and lost inside him","pin":false},{"n":121,"s":448.05,"e":452.07,"x":"Like she swore she never would.","pin":false}],"frames":[{"key":"A","t":46.3,"section":"Verse A: Through eyes"},{"key":"B","t":125.9,"section":"White Coats I"},{"key":"C","t":368.3,"section":"The Cutting"}]};
 (function () {
   const cv = document.getElementById('tl'), ro = document.getElementById('readout');
   const css = n => getComputedStyle(document.documentElement).getPropertyValue(n).trim();
